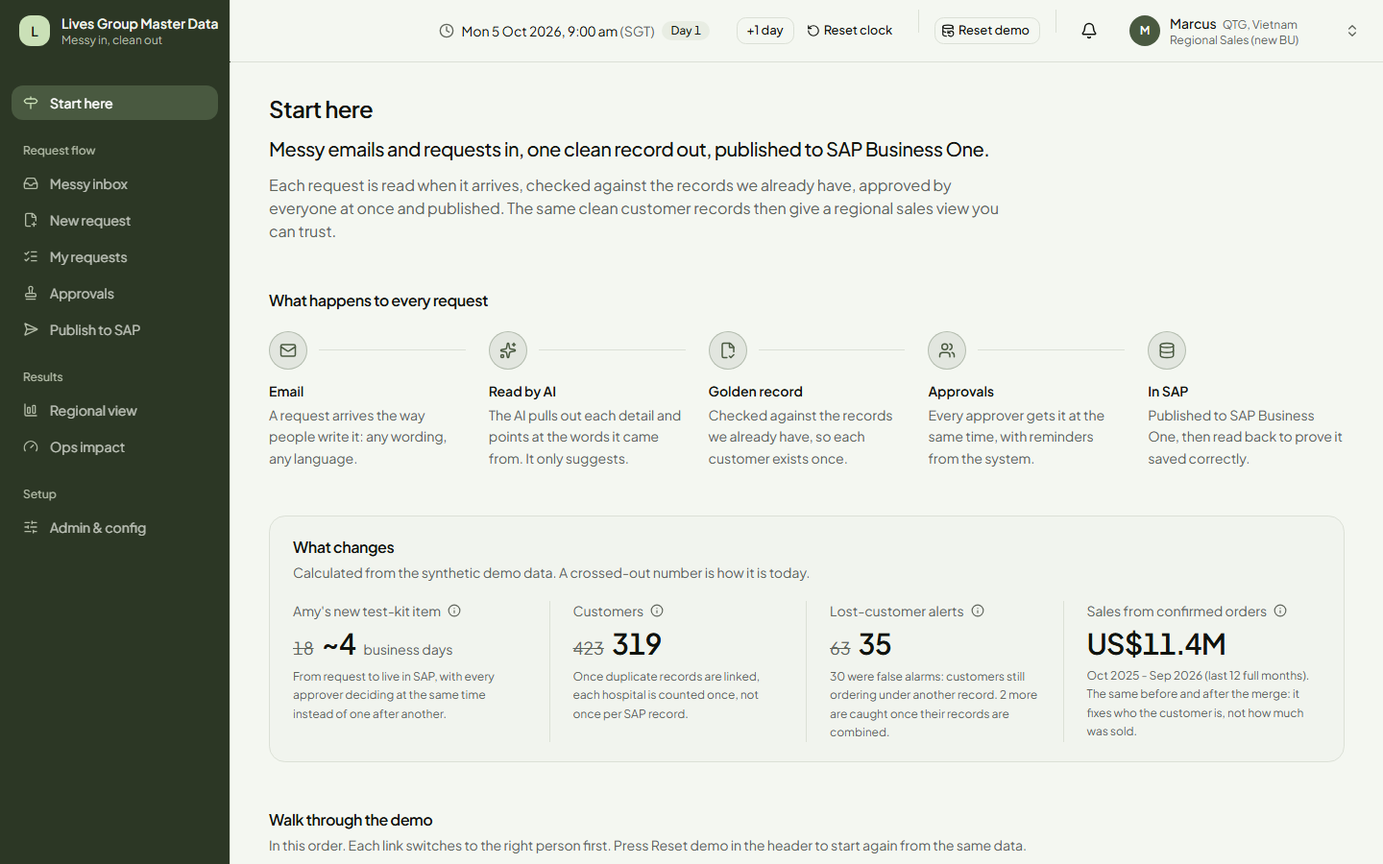
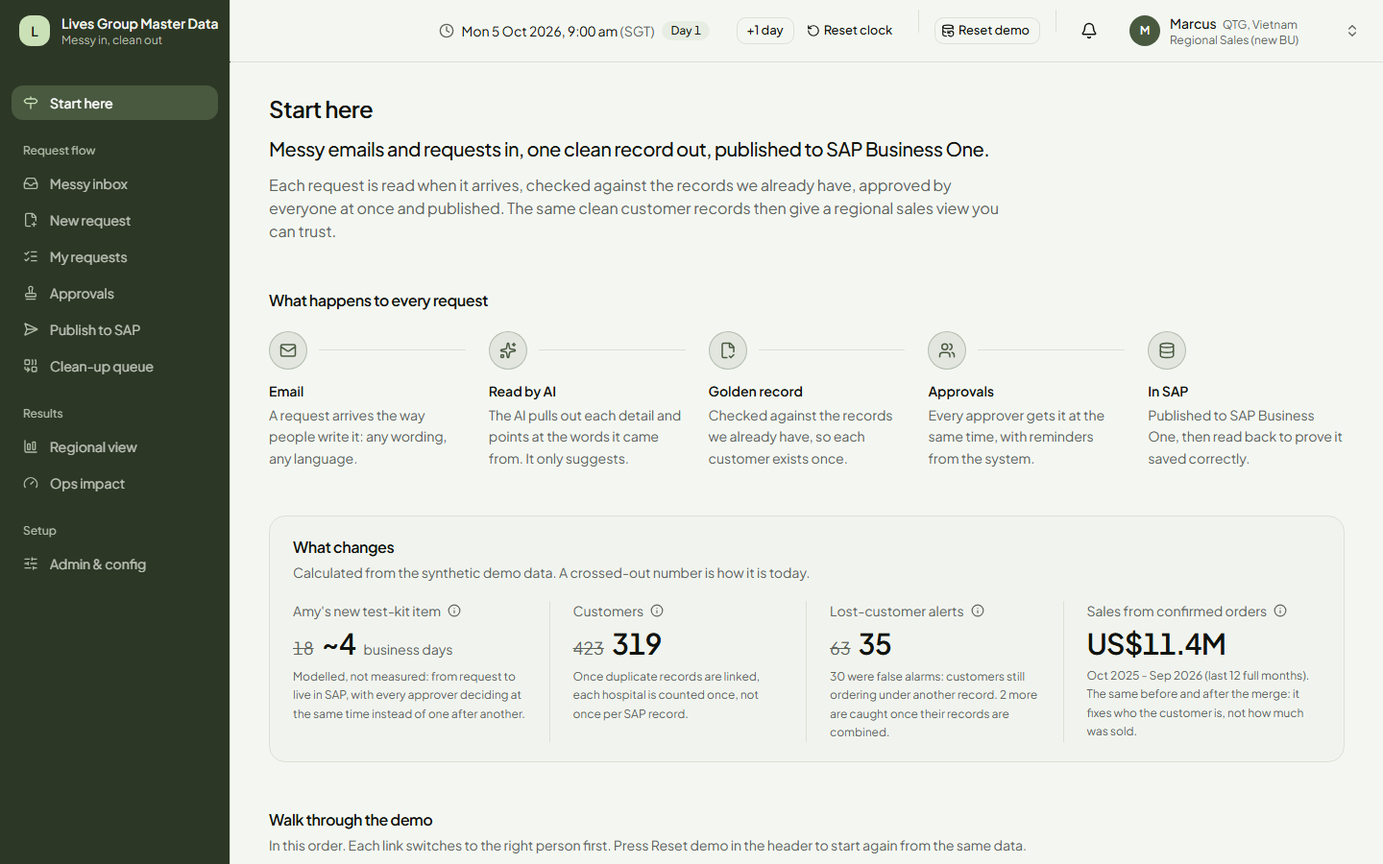
docs: README brief-to-build table, 5-minute judge walkthrough, pilot plan, screens 05-08; finals beats A-D; D-026; results.md holdout table labels regenerated (no number changed)

diff --git a/apps/web/e2e/readme-shots.spec.ts b/apps/web/e2e/readme-shots.spec.ts
@@ -34,6 +34,20 @@ test("Start here", async ({ page }) => {
   await shot(page, "05-start-here");
 });
 
+test("Reply to sender (draft)", async ({ page }) => {
+  await open(page, "marcus", "/inbox");
+  await page.getByTestId("inbox-DEMO-01").click();
+  const pane = page.getByTestId("email-pane");
+  const read = pane.getByTestId("read-with-ai");
+  if (await read.isVisible()) await read.click();
+  await expect(pane.getByTestId("reply-draft")).toBeVisible({ timeout: 20_000 });
+  // Scroll to the end of the reading panel: the sticky create bar settles below the draft.
+  await pane.evaluate((el) =>
+    window.scrollTo(0, el.getBoundingClientRect().bottom + window.scrollY - window.innerHeight + 24),
+  );
+  await shot(page, "06-reply-draft");
+});
+
 test("Clean-up queue", async ({ page }) => {
   await open(page, "priya", "/cleanup");
   await expect(page.getByTestId("cleanup-reasons").first()).toBeVisible({ timeout: 20_000 });

diff --git a/README.md b/README.md
@@ -9,6 +9,7 @@
 1. Watch the demo video (link above).
 2. Read the [Headline results](#headline-results) table.
 3. For the method, caveats and every table: [`docs/results.md`](docs/results.md).
+4. To click through it yourself in five minutes: [`docs/judge-walkthrough.md`](docs/judge-walkthrough.md).
 
 Lives Group's three companies (SPD, QTS and QTG) share one SAP Business One system across Singapore, Malaysia, Indonesia, Vietnam and Thailand. Requests for new customers, vendors and products arrive as free-text emails, in five countries' worth of spellings, scripts and languages. This prototype reads those emails where they arrive, checks the request against the records that already exist so each customer gets **one golden record**, sends it to every approver **at the same time**, and publishes it to SAP Business One with a read-back check. Because each customer now has one ID, the same data gives an **honest regional sales view**: real orders only, no customers that look "lost" because they were re-created under a new name.
 
@@ -42,6 +43,15 @@ All at 1440x900, from the automated demo rehearsal (`make rehearse`) on the seed
 | ![The status page: a pipeline from email to SAP with each step lit](docs/img/screens/03-status-beam.png) | ![The regional view after merge: before/after toggle, headline numbers, sales heatmap and growth map](docs/img/screens/04-regional.png) |
 | **Status page.** From email to SAP in five steps: every approver, side by side, and the record now live in SAP. | **Regional view.** After merging duplicates: 30 of 63 "lost" alerts were duplicates; sales by country and product, growth by country on the map. |
 
+Four more screens from the last build day, taken by `make readme-shots`:
+
+| | |
+|---|---|
+| ![Start here: the five steps, headline numbers read from the app, and one card per journey](docs/img/screens/05-start-here.png) | ![The reply the MDM mailbox would send: thanks, only the missing details, and a link to the pre-filled form](docs/img/screens/06-reply-draft.png) |
+| **Start here.** The landing page: the five steps, the headline numbers (read live from the app), and where to click for each journey. | **Reply to the sender (draft).** A fixed template, no AI: it asks only for what the email left out and links to the form already filled in. Nothing is sent from the prototype. |
+| ![The approval rules editor with a Quality / Regulatory step added for QTG customers in Vietnam and the preview of who would approve](docs/img/screens/07-rules-editor.png) | ![The clean-up queue: two records of one Vietnamese laboratory side by side, with the reasons they look the same](docs/img/screens/08-cleanup-queue.png) |
+| **Approval rules.** The MDM team adds or removes an approver for a company and country, sees who would approve before saving, and new requests follow it. | **Clean-up queue.** The duplicate groups already in the customer master, most certain first. Priya confirms each link or marks it as not the same, with a reason. |
+
 ## Headline results
 
 Every number comes from synthetic data and is regenerated by `make eval`. Full method, caveats and tables: [`docs/results.md`](docs/results.md).
@@ -57,6 +67,26 @@ Every number comes from synthetic data and is regenerated by `make eval`. Full m
 | Request cycle time (median) | **14.7 → 3.5 business days** (Amy's item: 18 → about 4) | **Modelled, not measured:** the new rules replayed on past requests, every assumption labelled. [Details](docs/results.md#request-cycle-time-today-vs-new-process-prd-m10) |
 | Forecast vs the Excel 6-month average | **A tie at country level** (15.2% vs 15.4% error) | We do not claim a better forecast. **The biggest error is the data:** counting enquiries as orders takes the equipment plan's error from 28% to 271%. Ours does win on service contracts (29.7% vs 38.9%). [Details](docs/results.md#forecast-backtest-prd-m9) |
 | Bank numbers that reached the AI or its saved answers | **0** | Removed before every AI call, by design (rule 5 below). |
+
+## From the brief to the build
+
+Each row starts from a pain point in the organisers' brief (§4, quoted), names what the prototype does about it and where to see it, and gives the evidence. Every number links to [`docs/results.md`](docs/results.md), where it is regenerated by `make eval`; "modelled" means replayed on past requests, not measured in a pilot.
+
+| Pain point (quoted from the brief) | What we built | Where in the app | Evidence |
+|---|---|---|---|
+| "Incomplete submissions bounce back and forth by email before an approver even sees them." | The AI reads the email and lists what is missing; a draft reply asks the sender for only those fields, with a link to the pre-filled form; the form will not submit until each country's required fields are in. | Messy inbox → DEMO-01 → "Reply to sender (draft)"; New request | First time right **61.5% → 79.1%** (modelled). [Details](docs/results.md#request-cycle-time-today-vs-new-process-prd-m10) |
+| "A requestor searching for 'National University Hospital' … has no reliable way to check whether it already exists under a slightly different name." | Layered duplicate check while the form is typed: tax ID, names across languages and scripts, fuzzy match, AI second opinion only when unsure. A person decides. | New request (from DEMO-01): duplicate panel | **97.0%** of real duplicates blocked on unseen data, right **99.2%** of the time it blocks. [Details](docs/results.md#duplicate-check-prd-m4) |
+| "A request that needs five approvals … can take two to three weeks even when every individual approver is fast." | Everyone in a stage is asked at once; reminder at 1 business day, backup takes over at 2, on a simulated clock. | Approvals; My requests → status page | Median **14.7 → 3.5** business days; Amy's item **18 days → about 4** (modelled). [Details](docs/results.md#request-cycle-time-today-vs-new-process-prd-m10) |
+| "Requestors have no way to check status other than asking. Approvers don't know a request is waiting on them." | A status page with every approver side by side and due times; a bell that tells approvers the moment a task lands. | My requests → any request; the bell in the header | Shown in the app (no measured number). |
+| "There is no reliable record of who approved what, or when." | Append-only history log; each entry is chained to the one before, so an edit shows up. A button checks the whole chain. | Request page → History → "Check history is untampered"; Admin & config | `make tamper-demo` edits one entry in a copy of the database and the check names it. |
+| "Sensitive fields -- bank account details, credit terms -- travel through ordinary email." | Bank details are removed before any AI call, encrypted at rest, masked for everyone but Finance; an email can never set bank details, approvers or credit terms. | Messy inbox → DEMO-07; switch Wei Jie ↔ Daniel | **0** of 136 bank values in any AI answer or the 232 saved answers. [Details](docs/results.md#safety-checks) |
+| "Adding a new business unit … or an extra approval step … currently means someone manually redrafting the email template, the distribution list." | The MDM team edits the approval rules on screen, previews who would approve, and saves; new requests only, every change in the history log. | Admin & config → Approval rules | Automated test: a step added for QTG Vietnam customers appears on Marcus's next request. |
+| "Inconsistent or duplicate customer … records across business entities … make it difficult to consolidate a clean regional view." | One golden ID per customer; the regional view shows before and after merge; Priya confirms each proposed link in a clean-up queue. | Regional view → merge toggle; Clean-up queue | **423 records → 319 customers**; **30 of 63** "lost customer" alerts were duplicates; the links Priya reviews are right **277 of 277** times on the synthetic data. [Details](docs/results.md#regional-view-and-duplicate-damage-prd-m8) |
+| "Forecasts … rely on simple historical averages -- missing cross-selling opportunities … or early signs of customer drop-off." | Backtest against the Excel average; drop-off risk and cross-sell gap lists with a US$ value per account, after merge. | Regional view | Cross-sell **0% → 29%**; **26** customers fading (US$318,904); forecast a **tie** (15.2% vs 15.4%), and counting enquiries as orders takes the equipment error from **28% to 271%**. [Details](docs/results.md#forecast-backtest-prd-m9) |
+
+## Try it in 5 minutes
+
+After `make setup` and `make dev`, open http://localhost:3000 and follow [`docs/judge-walkthrough.md`](docs/judge-walkthrough.md): a five-minute click path through every journey, written from the automated end-to-end walkthrough. Press **Reset demo** (top right) to start again at any time.
 
 ## How it connects to SAP Business One
 
@@ -191,6 +221,8 @@ make dev            # API :8000, SAP B1 mock :8001, web app http://localhost:300
 | `make e2e` | Playwright browser tests. Starts its own copies on ports 8101/8100/3100 and stops them. |
 | `make rehearse` | Timed walk through the demo storyline, with 1440x900 screenshots in `apps/web/test-results/rehearse/`. |
 | `make eval` | Re-run the duplicate, email and forecast evaluations; rewrites `docs/results.md`. |
+| `make tamper-demo` | Change one history entry in a throwaway copy of the database and show the history check catching it. The real database is never written. |
+| `make readme-shots` | Re-take the README screenshots 05-08 at 1440x900. |
 
 `make e2e` and `make rehearse` need Playwright's Chromium once: `cd apps/web && pnpm exec playwright install chromium`.
 
@@ -212,6 +244,18 @@ docs/                Product spec, decisions log, data spec, results, demo scrip
 ```
 
 Decisions and the reasons behind them: [`docs/decisions.md`](docs/decisions.md). Product spec: [`docs/PRD.md`](docs/PRD.md).
+
+---
+
+## Pilot plan
+
+One team, six weeks, before anyone else changes how they work.
+
+- **Who:** Marcus's QTG Vietnam sales team (the newest business unit, whose requests went to the wrong people), with Priya as MDM owner and their usual approvers.
+- **Weeks 1-2:** the team submits through the form; Priya onboards their approval route in Admin & config. Emails to the MDM mailbox still work.
+- **Day 30:** switch on the mailbox auto-reply: every master-data email gets the draft reply (thanks, the missing fields, a link to the pre-filled form), sent by Power Automate from the MDM mailbox. Email stops being a dead end without being banned.
+- **Weeks 5-6:** Priya works through the clean-up queue for Vietnam's existing duplicates.
+- **Measured on the Ops impact page:** cycle time, first time right and duplicates stopped, the same measures the page models today, then from the team's real requests. One measure is added for the pilot: the share of requests that came through the form rather than as a plain email. Go or no-go for the next team at week 6.
 
 ---
 

diff --git a/docs/judge-walkthrough.md b/docs/judge-walkthrough.md
@@ -1,0 +1,56 @@
+# Try it in 5 minutes
+
+A click path through the prototype for judges, written from the automated walkthrough (`apps/web/e2e/walkthrough.spec.ts`, run by `make rehearse`). Every step below is exercised by that test on every change.
+
+**Before you start:** `make setup` once, then `make dev`, and open http://localhost:3000. Press **Reset demo** (top right) so you start from the seeded state. No API key is needed: the AI's answers for the demo emails were recorded and are replayed (the badge says so).
+
+The persona switcher (top right) sets who you are. There is no login; the server still enforces who may do what.
+
+## 0. Start here (15 s)
+
+The home page shows the five steps (email → interpreted → golden record → approvals → SAP), the headline numbers (read live from the app, not typed in), and one card per journey. The steps below follow those cards.
+
+## 1. Marcus: an email in Vietnamese spelling becomes one golden record (60 s)
+
+1. As **Marcus**, open **Messy inbox** and pick **DEMO-01** ("Benh vien Cho Ray").
+2. Click **Read this email**. Each detail appears with the exact words it came from lit up in the email; then the category; then what is missing.
+3. Under it, **Reply to sender (draft)** is the reply the MDM mailbox would send: thanks, only the missing fields, a link to the pre-filled form. Nothing is sent from the prototype.
+4. Click **Create request from this email**. The form is filled in, each value showing where it came from.
+5. The duplicate panel says **Likely duplicate: submit is paused**: the existing record "Bệnh viện Chợ Rẫy" (C00084), matched by tax ID and name across spellings. Click **Link to existing C00084**, then **See the request**: it is linked to the existing customer, so no new record and no approver's time.
+
+**Look for:** nothing the AI "found" without a quote; a person makes the duplicate decision.
+
+## 2. Amy: an item request that cannot be submitted incomplete (60 s)
+
+1. Switch to **Amy**. In the inbox, open **DEMO-02** (malaria rapid test), read it, and click **Create request from this email**.
+2. The form asks for a registration number and expiry for each selling country (SG, MY, VN). Submit stays disabled, with the reason shown, until they are in. Fill them in (any number, an expiry in the future) and submit.
+3. The status page shows every approver of the first stage at the same time: BU Head, Business Support, and Quality / Regulatory for each country, each with a due time.
+
+**Look for:** the brief's 18-day example came from one approver after another and a missing regulatory field. Here the field is required up front and approvers work in parallel.
+
+## 3. Approvers, reminders and a history you can check (45 s)
+
+1. Click **+1 day** next to the clock. Approvers who have not answered get a reminder (the bell).
+2. On Amy's request, click **Act as <name>** next to a pending approver and **Approve**; repeat for the others. Each decision lands in **History** with who and when.
+3. In History, click **Check history is untampered**. It recomputes the chain of the whole log and says how many entries are intact. (`make tamper-demo` shows the same check catching an edited entry in a copy of the database.)
+4. In the inbox, open **DEMO-07** (a new vendor with bank details in the email): the details were removed before the AI read it. Only Finance sees bank details in full.
+
+## 4. Priya: publish to SAP Business One (30 s)
+
+1. Switch to **Priya** and open **Publish to SAP**. Pick Amy's item and click **Publish**.
+2. The record is created inactive in SAP, read back, compared field by field, and only then switched on. What was sent and what SAP saved are side by side.
+
+## 5. The regional view (60 s)
+
+1. Open **Regional view**. Sales come from confirmed purchase orders only; enquiries and MDM requests are separate panels.
+2. Switch **Before merge → After merge**. Customers drop from 423 records to 319 customers; "lost customer" alerts from 63 to 35, because 30 were the same customer still ordering under another record. Sales totals do not change.
+3. Scroll for the map, the forecast backtest (honest: a tie with the Excel average, and counting enquiries as orders is the bigger error), the drop-off and cross-sell lists, and the recommended actions.
+
+## 6. Setup without IT (30 s)
+
+1. As **Priya**, open **Admin & config**. It opens on *Customer · QTG · Vietnam* (Marcus's new business unit). Under **Add step** choose *Quality / Regulatory* and *Nguyễn Thị Lan*, click **Add step**, and watch **Who would approve this?** update. Click **Save rule**: new requests get the new step, requests already in approval keep theirs, and the change is listed under **Recent changes** and in the history log.
+2. Open **Clean-up queue**: the duplicate groups the check proposes in the existing customer master, most certain first (168 groups, made of the 277 links that [`results.md`](results.md#how-good-are-our-merged-customers) scores as 277 of 277 right). Click **Confirm link**, or **Not the same** with a reason. The regional numbers do not move: the after-merge view uses the proposed links, and says so under its toggle.
+
+Press **Reset demo** when you are done: it restores everything, including rule changes and clean-up decisions.
+
+Every number above is in [`results.md`](results.md), regenerated by `make eval`.

diff --git a/docs/decisions.md b/docs/decisions.md
@@ -272,3 +272,14 @@ Decisions:
 2. **Fix:** every uvicorn launch (Makefile `UVICORN_KEEP_ALIVE ?= 75`, `e2e/start-api.mjs`, the e2e SAP mock) runs with `--timeout-keep-alive 75`, so the client always closes an idle socket first (the standard rule for proxies in front of an app server). **Defence in depth:** the typed client retries a GET once after 300 ms when the connection drops or the proxy answers a non-JSON 5xx, before reporting the server offline. Writes (POST/PUT/PATCH/DELETE) are never repeated.
 3. **Regression tests:** `tests/test_keep_alive.py` (every launch has the flag and it is over 10 s; live: the same socket, idle 5.5 s, is still served; red with 5 s) and `e2e/reset-under-poll.spec.ts` (three real resets after 5 s idle gaps with no `/api` 5xx, offline notice or error toast; one injected proxy 500 on `/clock` is retried silently).
 4. **Singapore's -16.2% (results.md "Why is Singapore down 16.2%?", generated by `notebooks/eval_regional.py` from `ds/analytics/change.py`):** mostly one-off equipment (Product B is 106% of the drop; repeat business is up 1.4%), so no formal recommended action, only a "worth a call anyway" line for the test-kit dip. That line gives the count and US$ total of the 5 biggest repeat-business drops, **not customer names**: some are real Singapore public hospitals, and printing invented spending drops next to their names goes against the spirit of D-022 #1. The names stay in the data structure only.
+
+## D-026 Session 12 decisions (26 Oct, Ihsan; final feature day)
+
+1. **Scope:** Stretch items built on the last feature day, each on its own branch and merged only after `make test`, `make e2e` and `make rehearse` passed on the merged result (run one branch at a time) and `docs/results.md` was unchanged: A reply-to-sender draft (S2 auto-reply), B editable approval rules (S2 config editor), C clean-up queue (S2 steward queue), D history check + `make tamper-demo` (S3), E "Start here" home page. Nothing was cut.
+2. **Reply draft (A):** a fixed template, no AI; shown only for new-record requests after the reading finishes, and **not** for an email flagged as giving the AI orders (DEMO-06). It lists only `missing_fields` and links to the pre-filled form. Nothing is sent; production sends it via Power Automate from the MDM mailbox. The interpreter has no new-vs-change distinction, so "new record request" = `mdm_request`.
+3. **Approval rules (B):** an override replaces the stage-1 approver steps for one record type x entity x country (items and cost centers: all countries); the MDM publish stage is fixed; the IVD and bank add-ons still apply on top. Only `mdm_analyst` may edit; zero approvers, an unknown person or a person without the role are refused. Each request stores the override it was routed with (`requests.routing_override`), so in-flight requests and their resubmits keep their route. With no override rows routing is unchanged: `tests/test_route_snapshot.py` compares DEMO-01, DEMO-02, DEMO-07 and an ask-for-info resubmit against a snapshot taken on 5b0d37f before any code change. Every save writes a `config_change` audit row. Known gap, not fixed: an override can name a backup approver or someone who will later publish; maker-checker still applies at decision time.
+4. **Clean-up queue (C):** the 277 Likely links from `ds/analytics/golden.py` (`likely_pairs`, which `likely_links` is now built on), grouped into 168 groups, most certain first (all links on the same tax ID, then by the weakest link's score). Priya confirms or marks "not the same" with a reason; decisions are audit-logged and **never feed the regional numbers** (a caption under the merge toggle says the after-merge view uses the proposed links). Tax-ID acronyms are shown as "tax ID (MST)".
+5. **History check (D):** `GET /audit/verify` for every persona; the request page says "Checks the whole history log (all requests): N entries intact." because the chain is global. `make tamper-demo` edits one approval a person made in a throwaway copy and never writes `data/app.db`. No tamper control in the UI.
+6. **Start here (E):** `/` is the landing page (the `/` -> `/inbox` redirect is gone); numbers come from `/analytics/ops-impact`, `/merge-impact` and `/regional`; the cycle-time number is captioned "Modelled, not measured". "Duplicates stopped" is left off because it is a live count that reads 0 after a reset.
+7. **Docs:** README gains "From the brief to the build", "Try it in 5 minutes" (`docs/judge-walkthrough.md`), a pilot plan and screens 05-08 (`make readme-shots`, not in `make e2e`). The Ops page does not yet show the share of requests through the form vs plain email; the pilot plan lists it as a measure to add.
+8. **Existing `data/app.db`** must be reseeded once after this merge (new `routing_overrides`, `cleanup_decisions` tables and `requests.routing_override` column).

diff --git a/docs/demo-script.md b/docs/demo-script.md
@@ -59,3 +59,40 @@ Rehearse the main path with `make rehearse`: it walks steps 1–7, prints per-st
 **Needs:** every regulated selling country of an IVD item needs a registration number and an expiry date that is after today. When rehearsing DEMO-02 (malaria kit, SG, MY, VN) type an expiry date for each country, for example `2030-01-10`.
 
 **Automated check:** `tests/test_validation.py::test_optional_beat_lapsed_licence_is_stopped_at_submit`.
+
+## Optional finals beats (session 12)
+
+Four short beats for the live finals or Q&A. None of them is in the recorded video path, and **Reset demo** undoes each one (rule changes and clean-up decisions included).
+
+### Finals beat A: the reply to the sender (adoption, about 20 s)
+
+**Steps:** in the messy inbox, read **DEMO-01** as Marcus and scroll the reading panel to **Reply to sender (draft)**.
+
+**Say:** "Nobody has to change how they ask on day one. When an email comes in, the mailbox answers with this: thanks, only the details we still need, and a link to the form already filled in from their email. It is a fixed template, not AI, and the prototype sends nothing. In production Power Automate sends it from the MDM mailbox." Click **Copy reply** or **Open form** if asked.
+
+**If asked "why not let the AI write the reply?":** a fixed template cannot promise anything, invent a field, or be talked into changing bank details. The AI only reads; it never sends.
+
+### Finals beat B: onboard a new team in 30 seconds (flexibility, about 40 s)
+
+**Steps:**
+
+1. Switch to **Priya** and open **Admin & config**. The editor opens on *Customer · QTG · Vietnam*, Marcus's new business unit.
+2. Under **Add step**, choose *Quality / Regulatory* and *Nguyễn Thị Lan*, and click **Add step**. **Who would approve this?** updates at once.
+3. Click **Save rule**. The change appears under **Recent changes** with who and when.
+4. Optional: switch to **Marcus**, create a Vietnam customer request and submit it. Lan is among the first-stage approvers.
+
+**Say:** "The brief says adding an approval step today means redrafting the email template and the distribution list. Here the MDM team does it in one screen, sees who would approve before saving, and only new requests pick it up. Requests already in approval keep their approvers. No IT ticket."
+
+### Finals beat C: clean up the duplicates already in SAP (Priya, about 30 s)
+
+**Steps:** as **Priya**, open **Clean-up queue**. The first group is two records of the same Vietnamese laboratory, with the same tax ID. Point at the reasons, then click **Confirm link**. The counter moves to "1 of 168 reviewed". On a weaker group, click **Not the same** and type a reason.
+
+**Say:** "The duplicate check doesn't only stop new duplicates; it also finds the ones already in the master: 168 groups, most certain first. Priya confirms each one; the AI never merges. Customer and vendor records, and records in different countries, are never grouped." (168 groups = the 277 proposed links, which `results.md` scores 277 of 277 right on the synthetic data.)
+
+**If asked whether her decisions change the regional numbers:** not in this prototype. The regional "after merge" view uses the links the check proposes, and says so under the toggle with a link to this queue. In production her confirmed links would become the golden IDs.
+
+### Finals beat D: prove the history was not edited (governance, about 20 s)
+
+**Steps:** on any request page, under **History**, click **Check history is untampered**: "Checks the whole history log (all requests): N entries intact." The same check is on **Admin & config**.
+
+**Say:** "Every entry is chained to the one before it, so an edit anywhere breaks the chain from that point on. The check recomputes the chain from the first entry." If there is a terminal, run `make tamper-demo`: it changes one approval in a throwaway copy of the database and shows the check naming that entry. There is deliberately no tamper button in the app.

diff --git a/CLAUDE.md b/CLAUDE.md
@@ -36,6 +36,7 @@ docs/                PRD, decisions, data spec, demo script, progress log
 - `make theme-shots` — 1440x900 screenshots of theme variants A/B (B is the default, D-023) into `apps/web/screenshots/themes/` (not in `make e2e`; the active variant is `THEME_VARIANT` in `apps/web/lib/theme.ts`)
 - `make eval` — dedup, classifier and forecast evaluations; writes `docs/results.md`
 - `make tamper-demo` — shows the history check catching an edit: changes one entry on a throwaway copy of `data/app.db` (the real file is never written) and prints before/after (not in `make e2e`)
+- `make readme-shots` — 1440x900 README screenshots 05-08 (Start here, reply draft, approval rules, clean-up queue) into `docs/img/screens/` (not in `make e2e`)
 
 ## Stack rules
 

diff --git a/docs/results.md b/docs/results.md
@@ -280,10 +280,10 @@ AI interpreter on the unseen emails, rows = true class, columns = what it said:
 | True class \ Predicted | Order (PO) | Planned order | Enquiry | Follow-up | Master-data request | Total |
 |---|---|---|---|---|---|---|
 | Order (PO) | **5** | . | . | . | . | 5 |
-| Planned order | . | **4** | 1 | . | . | 5 |
+| Planned order (app: Purchase request) | . | **4** | 1 | . | . | 5 |
 | Enquiry | . | . | **5** | . | . | 5 |
 | Follow-up | . | . | . | **4** | . | 4 |
-| Master-data request | . | . | . | . | **5** | 5 |
+| Master-data request (app: New record request) | . | . | . | . | **5** | 5 |
 
 Emails sorted into the wrong pile: HO-09 (Planned order read as Enquiry).
 
